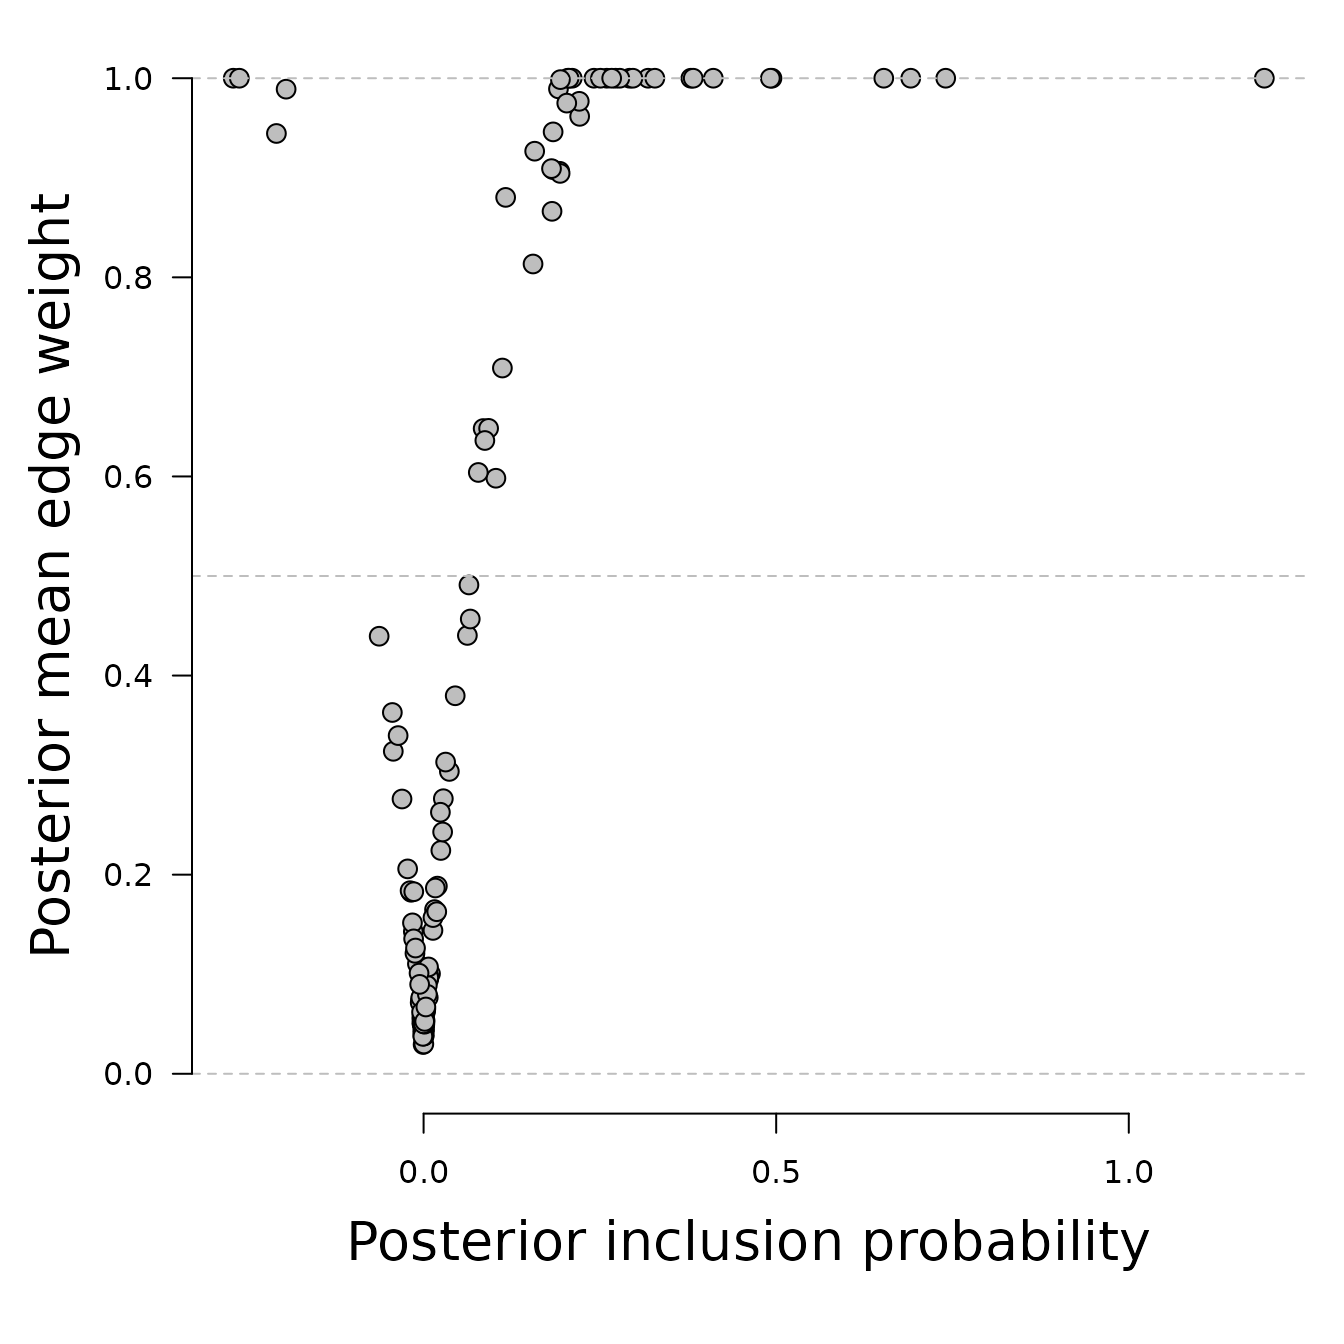
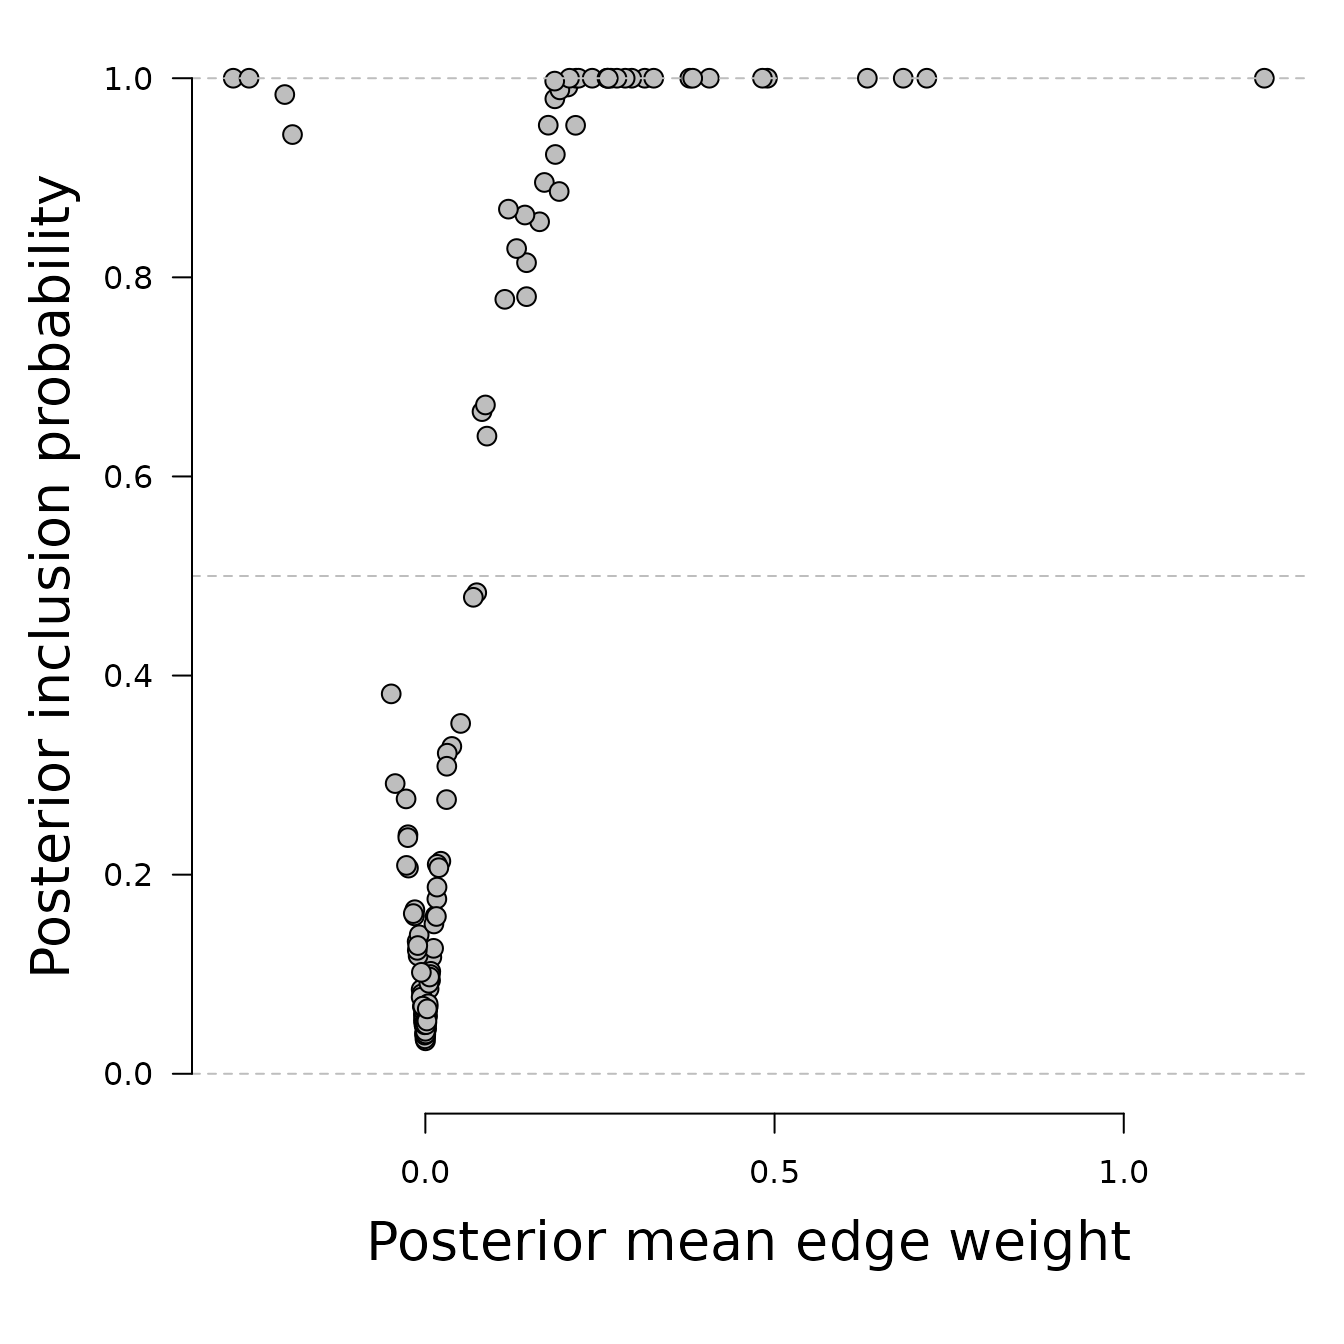
Deploying to gh-pages from @ vandenman/bgms@68ada414bd07d9538e2f2d64340fba01cd718111 🚀

diff --git a/404.html b/404.html
@@ -6,25 +6,25 @@
 <meta http-equiv="X-UA-Compatible" content="IE=edge">
 <meta name="viewport" content="width=device-width, initial-scale=1, shrink-to-fit=no">
 <title>Page not found (404) • bgms</title>
-<script src="https://vandenman.github.io/bgms/deps/jquery-3.6.0/jquery-3.6.0.min.js"></script><meta name="viewport" content="width=device-width, initial-scale=1, shrink-to-fit=no">
-<link href="https://vandenman.github.io/bgms/deps/bootstrap-5.2.2/bootstrap.min.css" rel="stylesheet">
-<script src="https://vandenman.github.io/bgms/deps/bootstrap-5.2.2/bootstrap.bundle.min.js"></script><link href="https://vandenman.github.io/bgms/deps/Source_Sans_Pro-0.4.5/font.css" rel="stylesheet">
-<link href="https://vandenman.github.io/bgms/deps/Source_Code_Pro-0.4.5/font.css" rel="stylesheet">
+<script src="https://maartenMarsman.github.io/bgms/deps/jquery-3.6.0/jquery-3.6.0.min.js"></script><meta name="viewport" content="width=device-width, initial-scale=1, shrink-to-fit=no">
+<link href="https://maartenMarsman.github.io/bgms/deps/bootstrap-5.2.2/bootstrap.min.css" rel="stylesheet">
+<script src="https://maartenMarsman.github.io/bgms/deps/bootstrap-5.2.2/bootstrap.bundle.min.js"></script><link href="https://maartenMarsman.github.io/bgms/deps/Source_Sans_Pro-0.4.5/font.css" rel="stylesheet">
+<link href="https://maartenMarsman.github.io/bgms/deps/Source_Code_Pro-0.4.5/font.css" rel="stylesheet">
 <!-- Font Awesome icons --><link rel="stylesheet" href="https://cdnjs.cloudflare.com/ajax/libs/font-awesome/5.12.1/css/all.min.css" integrity="sha256-mmgLkCYLUQbXn0B1SRqzHar6dCnv9oZFPEC1g1cwlkk=" crossorigin="anonymous">
 <link rel="stylesheet" href="https://cdnjs.cloudflare.com/ajax/libs/font-awesome/5.12.1/css/v4-shims.min.css" integrity="sha256-wZjR52fzng1pJHwx4aV2AO3yyTOXrcDW7jBpJtTwVxw=" crossorigin="anonymous">
-<!-- bootstrap-toc --><script src="https://cdn.jsdelivr.net/gh/afeld/bootstrap-toc@v1.0.1/dist/bootstrap-toc.min.js" integrity="sha256-4veVQbu7//Lk5TSmc7YV48MxtMy98e26cf5MrgZYnwo=" crossorigin="anonymous"></script><!-- headroom.js --><script src="https://cdnjs.cloudflare.com/ajax/libs/headroom/0.11.0/headroom.min.js" integrity="sha256-AsUX4SJE1+yuDu5+mAVzJbuYNPHj/WroHuZ8Ir/CkE0=" crossorigin="anonymous"></script><script src="https://cdnjs.cloudflare.com/ajax/libs/headroom/0.11.0/jQuery.headroom.min.js" integrity="sha256-ZX/yNShbjqsohH1k95liqY9Gd8uOiE1S4vZc+9KQ1K4=" crossorigin="anonymous"></script><!-- clipboard.js --><script src="https://cdnjs.cloudflare.com/ajax/libs/clipboard.js/2.0.6/clipboard.min.js" integrity="sha256-inc5kl9MA1hkeYUt+EC3BhlIgyp/2jDIyBLS6k3UxPI=" crossorigin="anonymous"></script><!-- search --><script src="https://cdnjs.cloudflare.com/ajax/libs/fuse.js/6.4.6/fuse.js" integrity="sha512-zv6Ywkjyktsohkbp9bb45V6tEMoWhzFzXis+LrMehmJZZSys19Yxf1dopHx7WzIKxr5tK2dVcYmaCk2uqdjF4A==" crossorigin="anonymous"></script><script src="https://cdnjs.cloudflare.com/ajax/libs/autocomplete.js/0.38.0/autocomplete.jquery.min.js" integrity="sha512-GU9ayf+66Xx2TmpxqJpliWbT5PiGYxpaG8rfnBEk1LL8l1KGkRShhngwdXK1UgqhAzWpZHSiYPc09/NwDQIGyg==" crossorigin="anonymous"></script><script src="https://cdnjs.cloudflare.com/ajax/libs/mark.js/8.11.1/mark.min.js" integrity="sha512-5CYOlHXGh6QpOFA/TeTylKLWfB3ftPsde7AnmhuitiTX4K5SqCLBeKro6sPS8ilsz1Q4NRx3v8Ko2IBiszzdww==" crossorigin="anonymous"></script><!-- pkgdown --><script src="https://vandenman.github.io/bgms/pkgdown.js"></script><meta property="og:title" content="Page not found (404)">
+<!-- bootstrap-toc --><script src="https://cdn.jsdelivr.net/gh/afeld/bootstrap-toc@v1.0.1/dist/bootstrap-toc.min.js" integrity="sha256-4veVQbu7//Lk5TSmc7YV48MxtMy98e26cf5MrgZYnwo=" crossorigin="anonymous"></script><!-- headroom.js --><script src="https://cdnjs.cloudflare.com/ajax/libs/headroom/0.11.0/headroom.min.js" integrity="sha256-AsUX4SJE1+yuDu5+mAVzJbuYNPHj/WroHuZ8Ir/CkE0=" crossorigin="anonymous"></script><script src="https://cdnjs.cloudflare.com/ajax/libs/headroom/0.11.0/jQuery.headroom.min.js" integrity="sha256-ZX/yNShbjqsohH1k95liqY9Gd8uOiE1S4vZc+9KQ1K4=" crossorigin="anonymous"></script><!-- clipboard.js --><script src="https://cdnjs.cloudflare.com/ajax/libs/clipboard.js/2.0.6/clipboard.min.js" integrity="sha256-inc5kl9MA1hkeYUt+EC3BhlIgyp/2jDIyBLS6k3UxPI=" crossorigin="anonymous"></script><!-- search --><script src="https://cdnjs.cloudflare.com/ajax/libs/fuse.js/6.4.6/fuse.js" integrity="sha512-zv6Ywkjyktsohkbp9bb45V6tEMoWhzFzXis+LrMehmJZZSys19Yxf1dopHx7WzIKxr5tK2dVcYmaCk2uqdjF4A==" crossorigin="anonymous"></script><script src="https://cdnjs.cloudflare.com/ajax/libs/autocomplete.js/0.38.0/autocomplete.jquery.min.js" integrity="sha512-GU9ayf+66Xx2TmpxqJpliWbT5PiGYxpaG8rfnBEk1LL8l1KGkRShhngwdXK1UgqhAzWpZHSiYPc09/NwDQIGyg==" crossorigin="anonymous"></script><script src="https://cdnjs.cloudflare.com/ajax/libs/mark.js/8.11.1/mark.min.js" integrity="sha512-5CYOlHXGh6QpOFA/TeTylKLWfB3ftPsde7AnmhuitiTX4K5SqCLBeKro6sPS8ilsz1Q4NRx3v8Ko2IBiszzdww==" crossorigin="anonymous"></script><!-- pkgdown --><script src="https://maartenMarsman.github.io/bgms/pkgdown.js"></script><meta property="og:title" content="Page not found (404)">
 <!-- mathjax --><script src="https://cdnjs.cloudflare.com/ajax/libs/mathjax/2.7.5/MathJax.js" integrity="sha256-nvJJv9wWKEm88qvoQl9ekL2J+k/RWIsaSScxxlsrv8k=" crossorigin="anonymous"></script><script src="https://cdnjs.cloudflare.com/ajax/libs/mathjax/2.7.5/config/TeX-AMS-MML_HTMLorMML.js" integrity="sha256-84DKXVJXs0/F8OTMzX4UR909+jtl4G7SPypPavF+GfA=" crossorigin="anonymous"></script><!--[if lt IE 9]>
 <script src="https://oss.maxcdn.com/html5shiv/3.7.3/html5shiv.min.js"></script>
 <script src="https://oss.maxcdn.com/respond/1.4.2/respond.min.js"></script>
 <![endif]-->
 </head>
 <body>
-    <a href="https://vandenman.github.io/bgms/#container" class="visually-hidden-focusable">Skip to content</a>
+    <a href="https://maartenMarsman.github.io/bgms/#container" class="visually-hidden-focusable">Skip to content</a>
     
 
     <nav class="navbar fixed-top navbar-light navbar-expand-lg bg-none"><div class="container">
     
-    <a class="navbar-brand me-2" href="https://vandenman.github.io/bgms/index.html">bgms</a>
+    <a class="navbar-brand me-2" href="https://maartenMarsman.github.io/bgms/index.html">bgms</a>
 
     <small class="nav-text text-muted me-auto" data-bs-toggle="tooltip" data-bs-placement="bottom" title="">0.1.0</small>
 
@@ -36,12 +36,12 @@
     <div id="navbar" class="collapse navbar-collapse ms-3">
       <ul class="navbar-nav me-auto">
 <li class="nav-item">
-  <a class="nav-link" href="https://vandenman.github.io/bgms/reference/index.html">Reference</a>
+  <a class="nav-link" href="https://maartenMarsman.github.io/bgms/reference/index.html">Reference</a>
 </li>
 <li class="nav-item dropdown">
-  <a href="https://vandenman.github.io/bgms/#" class="nav-link dropdown-toggle" data-bs-toggle="dropdown" role="button" aria-expanded="false" aria-haspopup="true" id="dropdown-articles">Articles</a>
+  <a href="https://maartenMarsman.github.io/bgms/#" class="nav-link dropdown-toggle" data-bs-toggle="dropdown" role="button" aria-expanded="false" aria-haspopup="true" id="dropdown-articles">Articles</a>
   <div class="dropdown-menu" aria-labelledby="dropdown-articles">
-    <a class="dropdown-item" href="https://vandenman.github.io/bgms/articles/introduction.html">Introducing bgms</a>
+    <a class="dropdown-item" href="https://maartenMarsman.github.io/bgms/articles/introduction.html">Introducing bgms</a>
   </div>
 </li>
       </ul>
@@ -57,7 +57,7 @@
 </nav><div class="container template-title-body" id="container">
 <div class="row">
   <main id="main" class="col-md-9"><div class="page-header">
-      <img src="https://vandenman.github.io/bgms/" class="logo" alt=""><h1>Page not found (404)</h1>
+      <img src="https://maartenMarsman.github.io/bgms/" class="logo" alt=""><h1>Page not found (404)</h1>
       
     </div>
 

diff --git a/articles/introduction.html b/articles/introduction.html
@@ -388,8 +388,8 @@ increasing the number of iterations to 100,000 or more.</p>
 <span><span class="fu"><a href="https://rdrr.io/r/graphics/abline.html" class="external-link">abline</a></span><span class="op">(</span>h <span class="op">=</span> <span class="fl">0</span>, lty <span class="op">=</span> <span class="fl">2</span>, col <span class="op">=</span> <span class="st">"gray"</span><span class="op">)</span></span>
 <span><span class="fu"><a href="https://rdrr.io/r/graphics/abline.html" class="external-link">abline</a></span><span class="op">(</span>h <span class="op">=</span> <span class="fl">1</span>, lty <span class="op">=</span> <span class="fl">2</span>, col <span class="op">=</span> <span class="st">"gray"</span><span class="op">)</span></span>
 <span><span class="fu"><a href="https://rdrr.io/r/graphics/abline.html" class="external-link">abline</a></span><span class="op">(</span>h <span class="op">=</span> <span class="fl">.5</span>, lty <span class="op">=</span> <span class="fl">2</span>, col <span class="op">=</span> <span class="st">"gray"</span><span class="op">)</span></span>
-<span><span class="fu"><a href="https://rdrr.io/r/graphics/mtext.html" class="external-link">mtext</a></span><span class="op">(</span><span class="st">"Posterior inclusion probability"</span>, side <span class="op">=</span> <span class="fl">1</span>, line <span class="op">=</span> <span class="fl">3</span>, cex <span class="op">=</span> <span class="fl">1.7</span><span class="op">)</span></span>
-<span><span class="fu"><a href="https://rdrr.io/r/graphics/mtext.html" class="external-link">mtext</a></span><span class="op">(</span><span class="st">"Posterior mean edge weight"</span>, side <span class="op">=</span> <span class="fl">2</span>, line <span class="op">=</span> <span class="fl">3</span>, cex <span class="op">=</span> <span class="fl">1.7</span><span class="op">)</span></span>
+<span><span class="fu"><a href="https://rdrr.io/r/graphics/mtext.html" class="external-link">mtext</a></span><span class="op">(</span><span class="st">"Posterior mean edge weight"</span>, side <span class="op">=</span> <span class="fl">1</span>, line <span class="op">=</span> <span class="fl">3</span>, cex <span class="op">=</span> <span class="fl">1.7</span><span class="op">)</span></span>
+<span><span class="fu"><a href="https://rdrr.io/r/graphics/mtext.html" class="external-link">mtext</a></span><span class="op">(</span><span class="st">"Posterior inclusion probability"</span>, side <span class="op">=</span> <span class="fl">2</span>, line <span class="op">=</span> <span class="fl">3</span>, cex <span class="op">=</span> <span class="fl">1.7</span><span class="op">)</span></span>
 <span><span class="fu"><a href="https://rdrr.io/r/graphics/axis.html" class="external-link">axis</a></span><span class="op">(</span><span class="fl">1</span><span class="op">)</span></span>
 <span><span class="fu"><a href="https://rdrr.io/r/graphics/axis.html" class="external-link">axis</a></span><span class="op">(</span><span class="fl">2</span>, las <span class="op">=</span> <span class="fl">1</span><span class="op">)</span></span></code></pre></div>
 <p><img src="introduction_files/figure-html/unnamed-chunk-6-1.png" width="672"></p>
@@ -561,7 +561,7 @@ structures <code>bgm</code> encountered in 10,000 iterations.</p>
 <code class="sourceCode R"><span><span class="va">G</span> <span class="op">=</span> <span class="fl">2</span> <span class="op">*</span> <span class="va">fit</span><span class="op">$</span><span class="va">gamma</span> <span class="op">-</span> <span class="fl">1</span></span>
 <span><span class="va">S</span> <span class="op">=</span> <span class="fu"><a href="https://rdrr.io/r/base/unique.html" class="external-link">unique</a></span><span class="op">(</span><span class="va">G</span><span class="op">)</span></span>
 <span><span class="fu"><a href="https://rdrr.io/r/base/nrow.html" class="external-link">nrow</a></span><span class="op">(</span><span class="va">S</span><span class="op">)</span></span>
-<span><span class="co">#&gt; [1] 9940</span></span></code></pre></div>
+<span><span class="co">#&gt; [1] 9960</span></span></code></pre></div>
 <p>There are clearly many different network structures that could fit
 the data. Let’s estimate their posterior probabilities.</p>
 <div class="sourceCode" id="cb15"><pre class="downlit sourceCode r">
